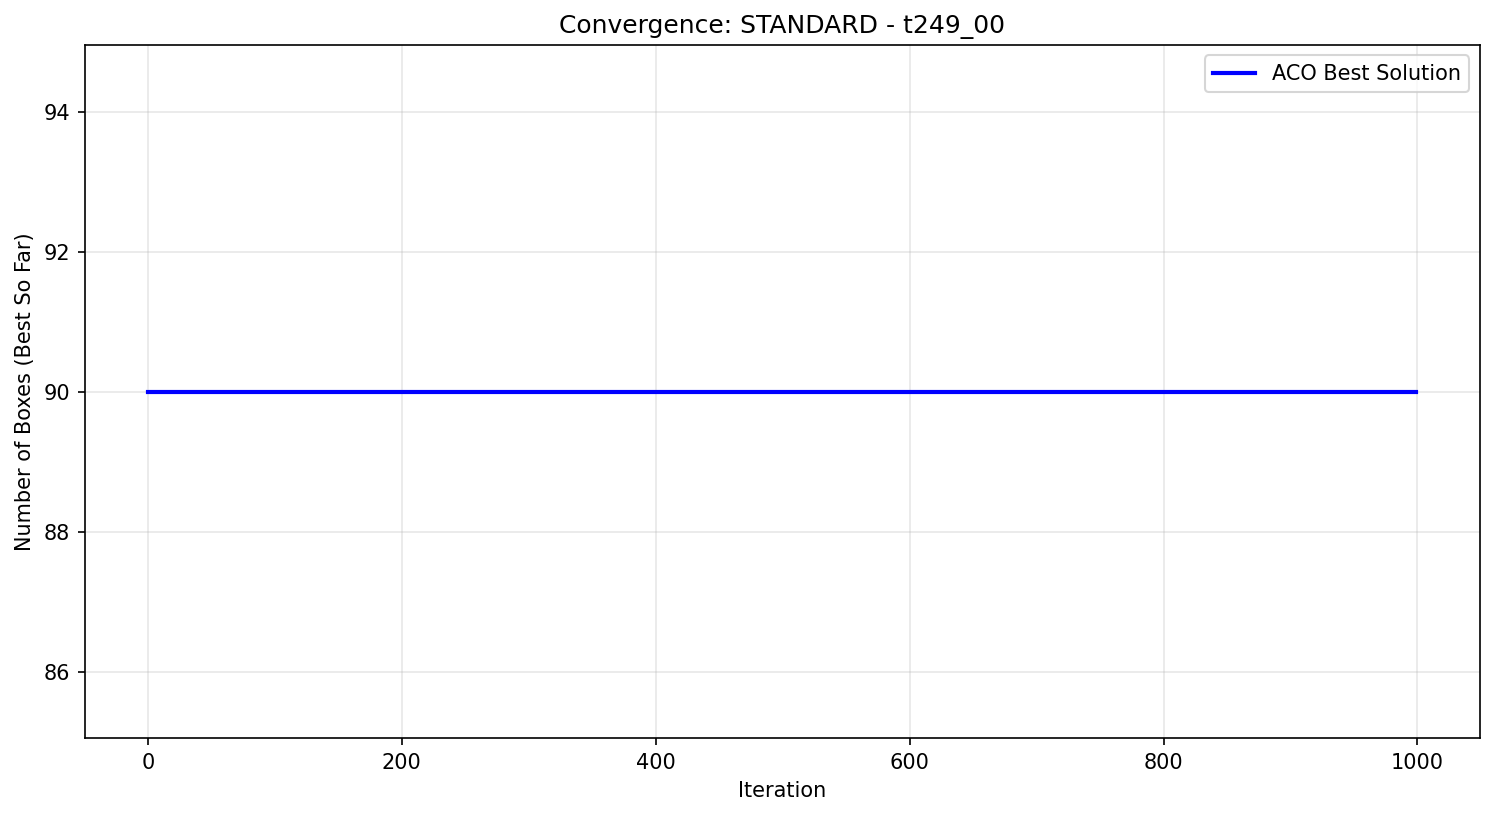
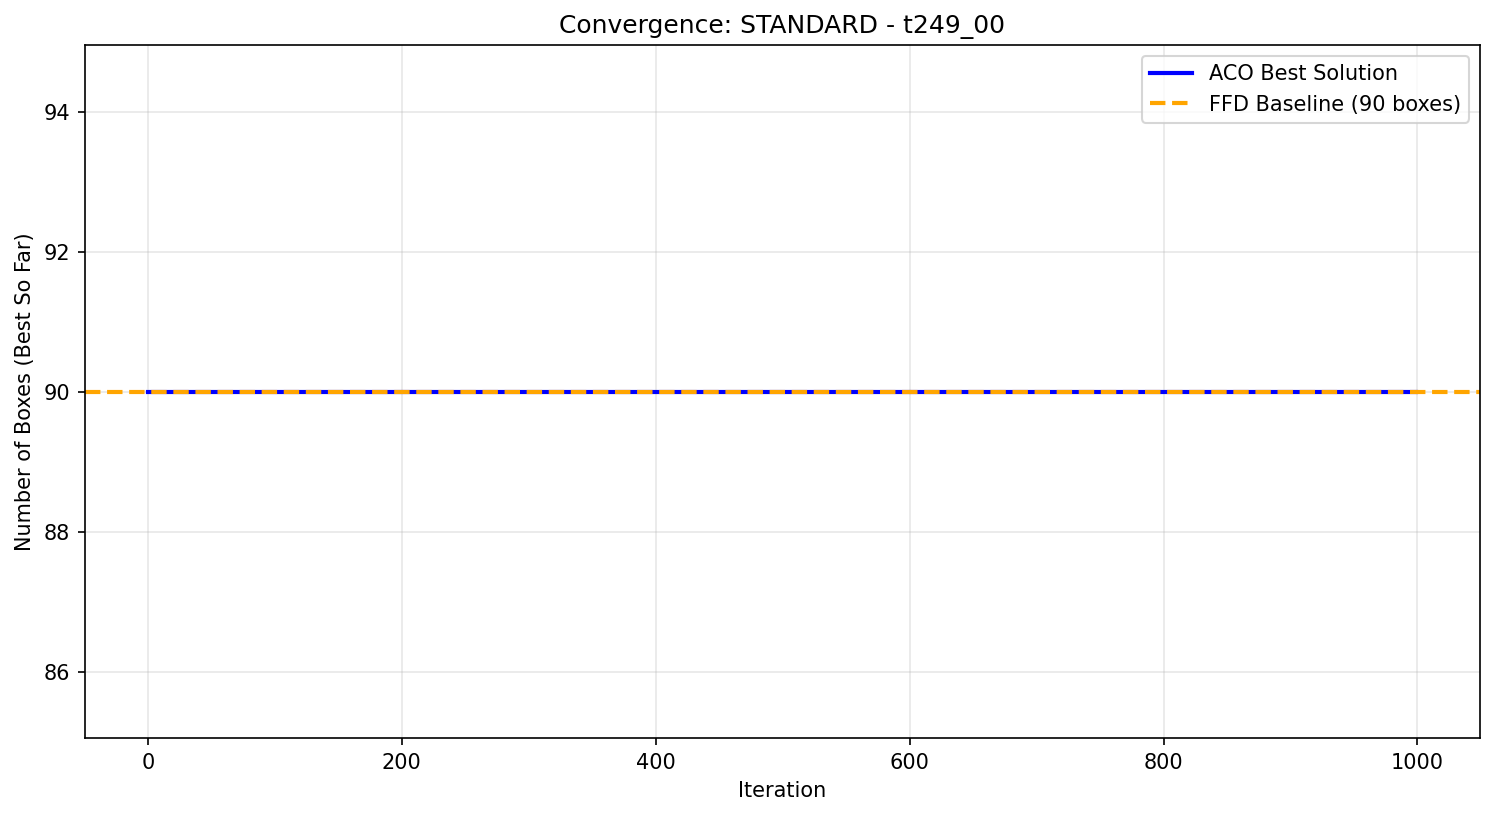
Added FFD baseline comparison, updated convergence plots with baseline lines

Changed region(s): [[0.0616, 0.4596, 0.9853, 0.4902], [0.7697, 0.0613, 0.9853, 0.1532]]

diff --git a/problem-1/main.py b/problem-1/main.py
@@ -10,6 +10,7 @@ import numpy as np
 # Import our modules
 import config
 from aco_bin_packing import ACOBinPacking
+from baselines import first_fit_decreasing
 from data_loader import load_orlib_instance, create_simple_instance, get_benchmark_instances
 
 
@@ -65,7 +66,8 @@ def save_results(
         'num_boxes': result['num_boxes'],
         'unused_capacity': result['unused_capacity'],
         'box_loads': result['box_loads'],
-        'runtime': runtime
+        'runtime': runtime,
+        'baseline': result.get('baseline')
     }
     np.save(solution_path, solution_data, allow_pickle=True)
     
@@ -180,6 +182,16 @@ Examples:
     print(f"Items: {item_sizes}")
     print(f"Box capacity: {box_capacity}")
     print()
+
+    # --- Baseline: First-Fit Decreasing ---
+    print("--- Baseline: First-Fit Decreasing (FFD) ---")
+    baseline_start = time.time()
+    baseline_result = first_fit_decreasing(item_sizes, box_capacity)
+    baseline_runtime = time.time() - baseline_start
+    print(f"Number of boxes (FFD): {baseline_result['num_boxes']}")
+    print(f"Unused capacity (FFD): {baseline_result['unused_capacity']}")
+    print(f"Runtime (FFD): {baseline_runtime:.4f} seconds")
+    print()
     
     # --- Step 2: Initialize ACO Solver ---
     solver = ACOBinPacking(
@@ -205,6 +217,15 @@ Examples:
     print(f"Unused capacity: {result['unused_capacity']}")
     print(f"Runtime: {runtime:.2f} seconds")
     print(f"\nBox loads: {result['box_loads']}")
+
+    # Attach baseline results for downstream analysis
+    result['baseline'] = {
+        'assignment': baseline_result['assignment'],
+        'box_loads': baseline_result['box_loads'],
+        'num_boxes': baseline_result['num_boxes'],
+        'unused_capacity': baseline_result['unused_capacity'],
+        'runtime': baseline_runtime
+    }
     
     # --- Step 4: Save Results ---
     save_results(exp_name, instance_name, result, runtime)

diff --git a/problem-1/analysis.py b/problem-1/analysis.py
@@ -57,7 +57,8 @@ def load_results(experiment_name: str, instance_name: str) -> Optional[Dict[str,
 def plot_convergence(
     convergence: np.ndarray,
     experiment_name: str,
-    instance_name: str
+    instance_name: str,
+    baseline_boxes: Optional[float] = None
 ) -> None:
     """
     Plot convergence curve showing how ACO improves over iterations.
@@ -85,6 +86,16 @@ def plot_convergence(
     
     # Plot convergence
     plt.plot(convergence, label='ACO Best Solution', color='blue', linewidth=2)
+
+    # Plot baseline horizontal line if provided
+    if baseline_boxes is not None:
+        plt.axhline(
+            y=baseline_boxes,
+            color='orange',
+            linestyle='--',
+            linewidth=2,
+            label=f'FFD Baseline ({baseline_boxes:.0f} boxes)'
+        )
     
     plt.title(f'Convergence: {experiment_name} - {instance_name}')
     plt.xlabel('Iteration')
@@ -275,10 +286,22 @@ def main() -> None:
     print(f"Number of boxes: {solution['num_boxes']}")
     print(f"Unused capacity: {solution['unused_capacity']}")
     print(f"Runtime: {solution['runtime']:.2f} seconds")
+
+    baseline = solution.get('baseline')
+    if baseline:
+        print("\nBaseline (First-Fit Decreasing)")
+        print("-"*60)
+        print(f"Number of boxes: {baseline['num_boxes']}")
+        print(f"Unused capacity: {baseline['unused_capacity']}")
+        runtime = baseline.get('runtime')
+        if runtime is not None:
+            print(f"Runtime: {runtime:.4f} seconds")
     
     # --- Generate Plots ---
     print("\nGenerating plots...")
-    plot_convergence(convergence, exp_name, args.instance)
+    baseline_num = baseline['num_boxes'] if baseline else None
+
+    plot_convergence(convergence, exp_name, args.instance, baseline_num)
     plot_load_distribution(
         solution['box_loads'],
         box_capacity,

diff --git a/problem-1/baselines.py b/problem-1/baselines.py
@@ -1,0 +1,48 @@
+"""
+Baselines for the 1D Bin Packing problem.
+
+Currently includes a First-Fit Decreasing (FFD) heuristic implementation.
+"""
+
+from typing import Dict, List
+
+
+def first_fit_decreasing(item_sizes: List[int], box_capacity: int) -> Dict:
+    """
+    First-Fit Decreasing (FFD) heuristic for 1D bin packing.
+
+    Steps:
+    1. Sort items in non-increasing order.
+    2. For each item, place it in the first box that can accommodate it.
+    3. If no box can accommodate it, open a new box.
+    """
+    # Keep track of original indices so we can reconstruct assignments
+    sorted_items = sorted(enumerate(item_sizes), key=lambda x: x[1], reverse=True)
+
+    box_loads: List[int] = []
+    assignment: Dict[int, int] = {}
+
+    for original_idx, size in sorted_items:
+        placed = False
+        for box_idx, load in enumerate(box_loads):
+            if load + size <= box_capacity:
+                box_loads[box_idx] += size
+                assignment[original_idx] = box_idx
+                placed = True
+                break
+
+        if not placed:
+            box_loads.append(size)
+            assignment[original_idx] = len(box_loads) - 1
+
+    num_boxes = len(box_loads)
+    unused_capacity = sum(box_capacity - load for load in box_loads)
+
+    return {
+        "assignment": assignment,
+        "box_loads": box_loads,
+        "num_boxes": num_boxes,
+        "unused_capacity": unused_capacity,
+    }
+
+
